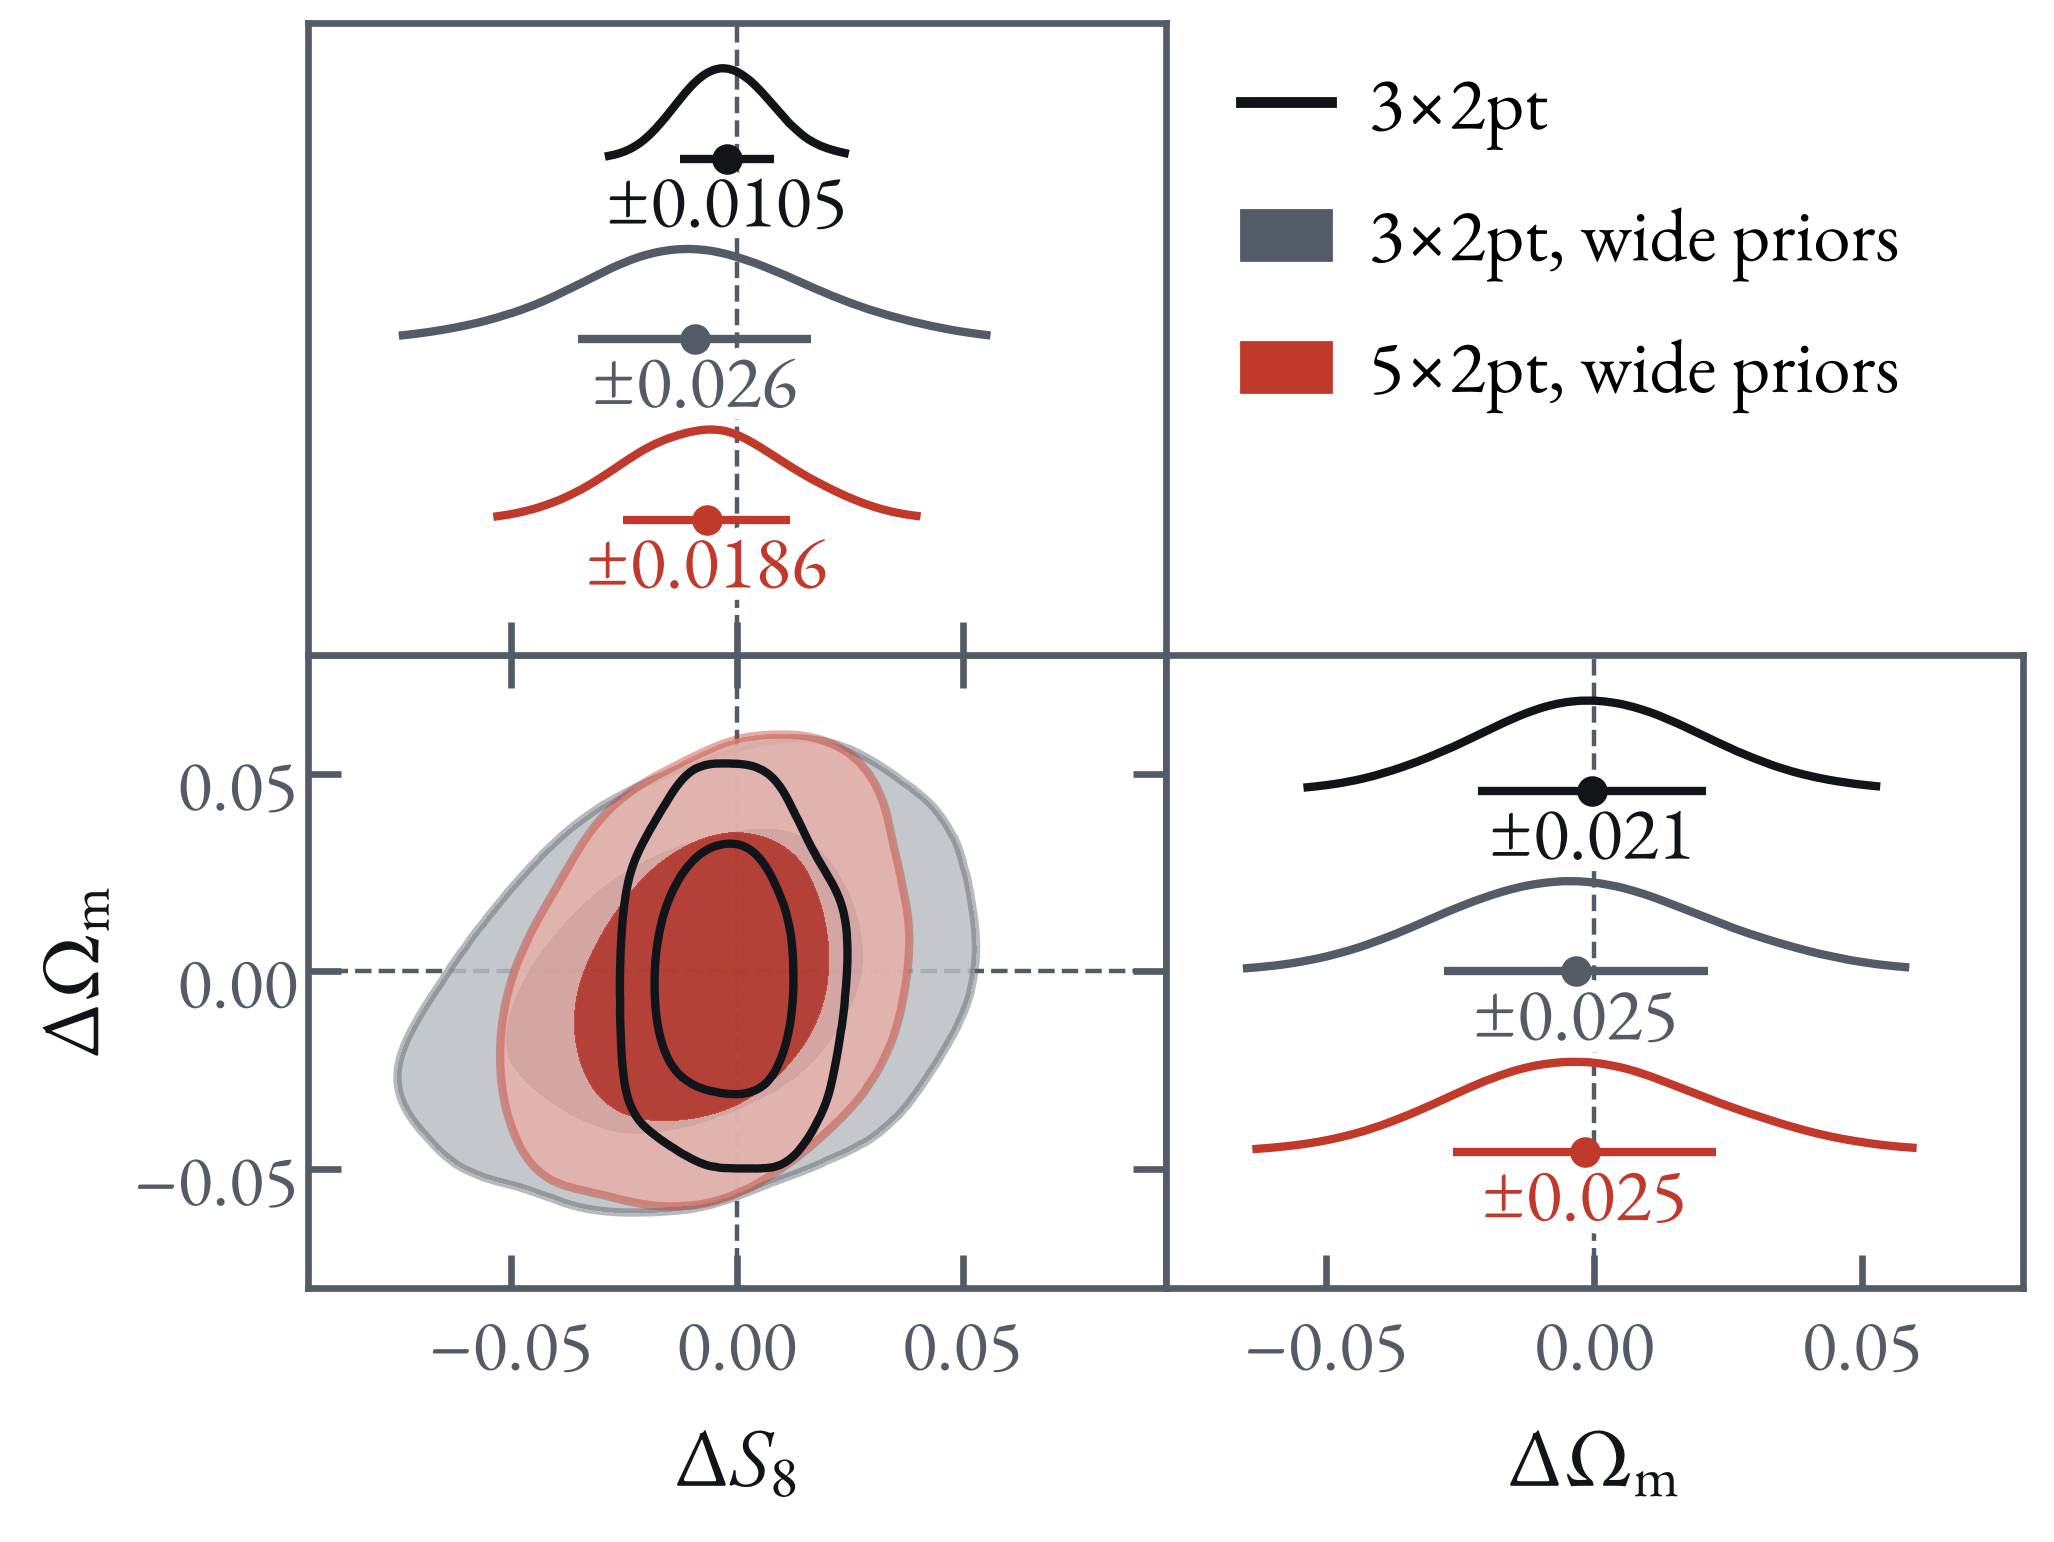
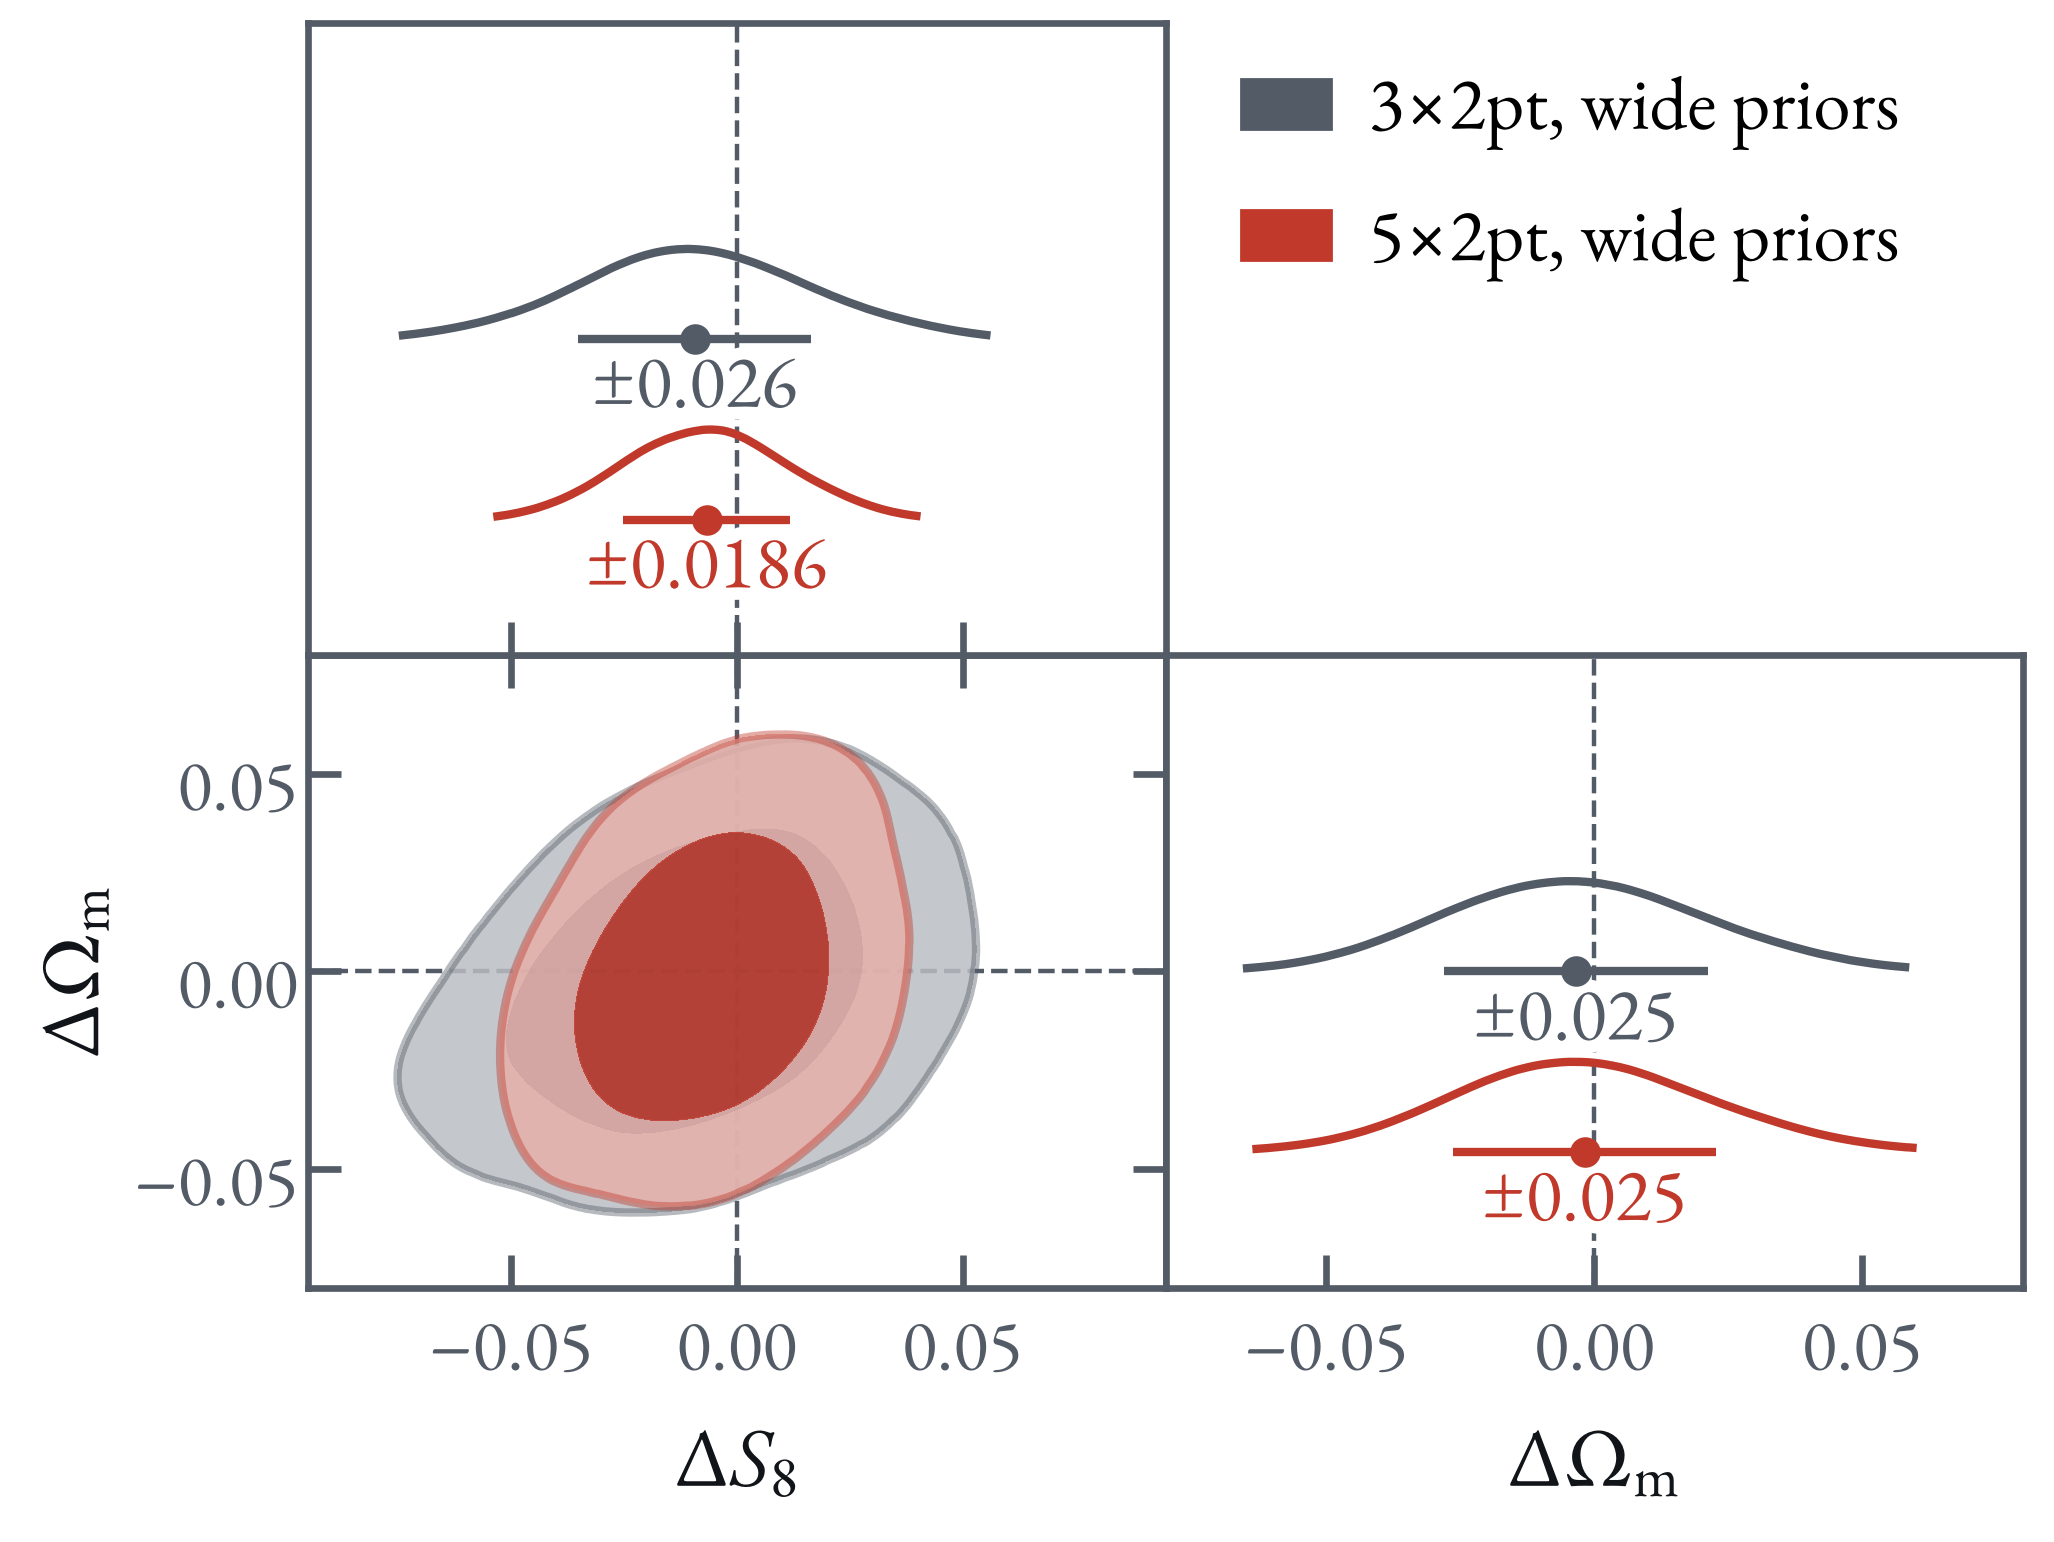
ICE dr1-forecast: the wide-prior frames show only the two wide-prior chains
Claude-Session: https://claude.ai/code/session_01JK7o9HLVAQSEbDDkHmrKC6

diff --git a/2611_ICE_Barcelona/slides/dr1-forecast.html b/2611_ICE_Barcelona/slides/dr1-forecast.html
@@ -4,7 +4,7 @@
     <img src="images/ice_dr1_forecast_1.png" alt="Forecast S8 against Omega_m for Euclid DR1 3x2pt on its own, a tilted ellipse">
     <img class="fragment" data-fragment-index="1" src="images/ice_dr1_forecast_2.png" alt="The 5x2pt with SPT-3G and with ACT DR6 drawn over it: both nearly the same as the 3x2pt">
     <img class="fragment" data-fragment-index="2" src="images/ice_dr1_forecast_3.png" alt="The 6x2pt with SPT-3G and with ACT DR6 in their place: the SPT-3G ellipse has less than half the area of the 3x2pt">
-    <img class="fragment" data-fragment-index="3" src="images/ice_dr1_forecast_4.png" alt="With the priors on shear m and the source redshifts ten times wider, the 3x2pt contour grows to more than twice its width in S8">
+    <img class="fragment" data-fragment-index="3" src="images/ice_dr1_forecast_4.png" alt="The 3x2pt with the priors on shear m and the source redshifts ten times wider, on wider axes">
     <img class="fragment" data-fragment-index="4" src="images/ice_dr1_forecast_5.png" alt="The 5x2pt with SPT-3G under the same wide priors, added as the bottom row: it grows less than the 3x2pt">
     <span class="source">SPT-3G: Main and Summer fields</span>
   </figure>

diff --git a/2611_ICE_Barcelona/make_dr1_forecast.py b/2611_ICE_Barcelona/make_dr1_forecast.py
@@ -72,7 +72,6 @@ def main():
     z, zw = np.load(args.src), np.load(args.wide)
     truth = dict(zip(DERIVED, z['dr1_3x2|t'].astype(float)))
     base = chain(z, 'dr1_3x2', '3×2pt', EUCLID)
-    ink = chain(z, 'dr1_3x2', '3×2pt', style.INK, False)
     wide3 = chain(zw, 'dr1_3x2_pw10', '3×2pt, wide priors', EUCLID)
     wide5 = chain(zw, 'dr1_MS_5x2_pw10', '5×2pt, wide priors', SPT)
     # Each frame: its rows from top to bottom (widest first), then the order its contours are laid down, outlines last.
@@ -81,7 +80,7 @@ def main():
         act = chain(z, f'dr1_A_{n}x2', f'{n}×2pt with ACT DR6', ACT)
         spt = chain(z, f'dr1_MS_{n}x2', f'{n}×2pt with SPT-3G', SPT, False)
         frames.append(([base, act, spt], [base, act, spt]))
-    frames += [([ink, wide3], [wide3, ink]), ([ink, wide3, wide5], [wide3, wide5, ink])]
+    frames += [([wide3], [wide3]), ([wide3, wide5], [wide3, wide5])]
     for k, (rows, draw) in enumerate(frames, 1):
         wide = k >= 4
         chains = rows[::-1]
